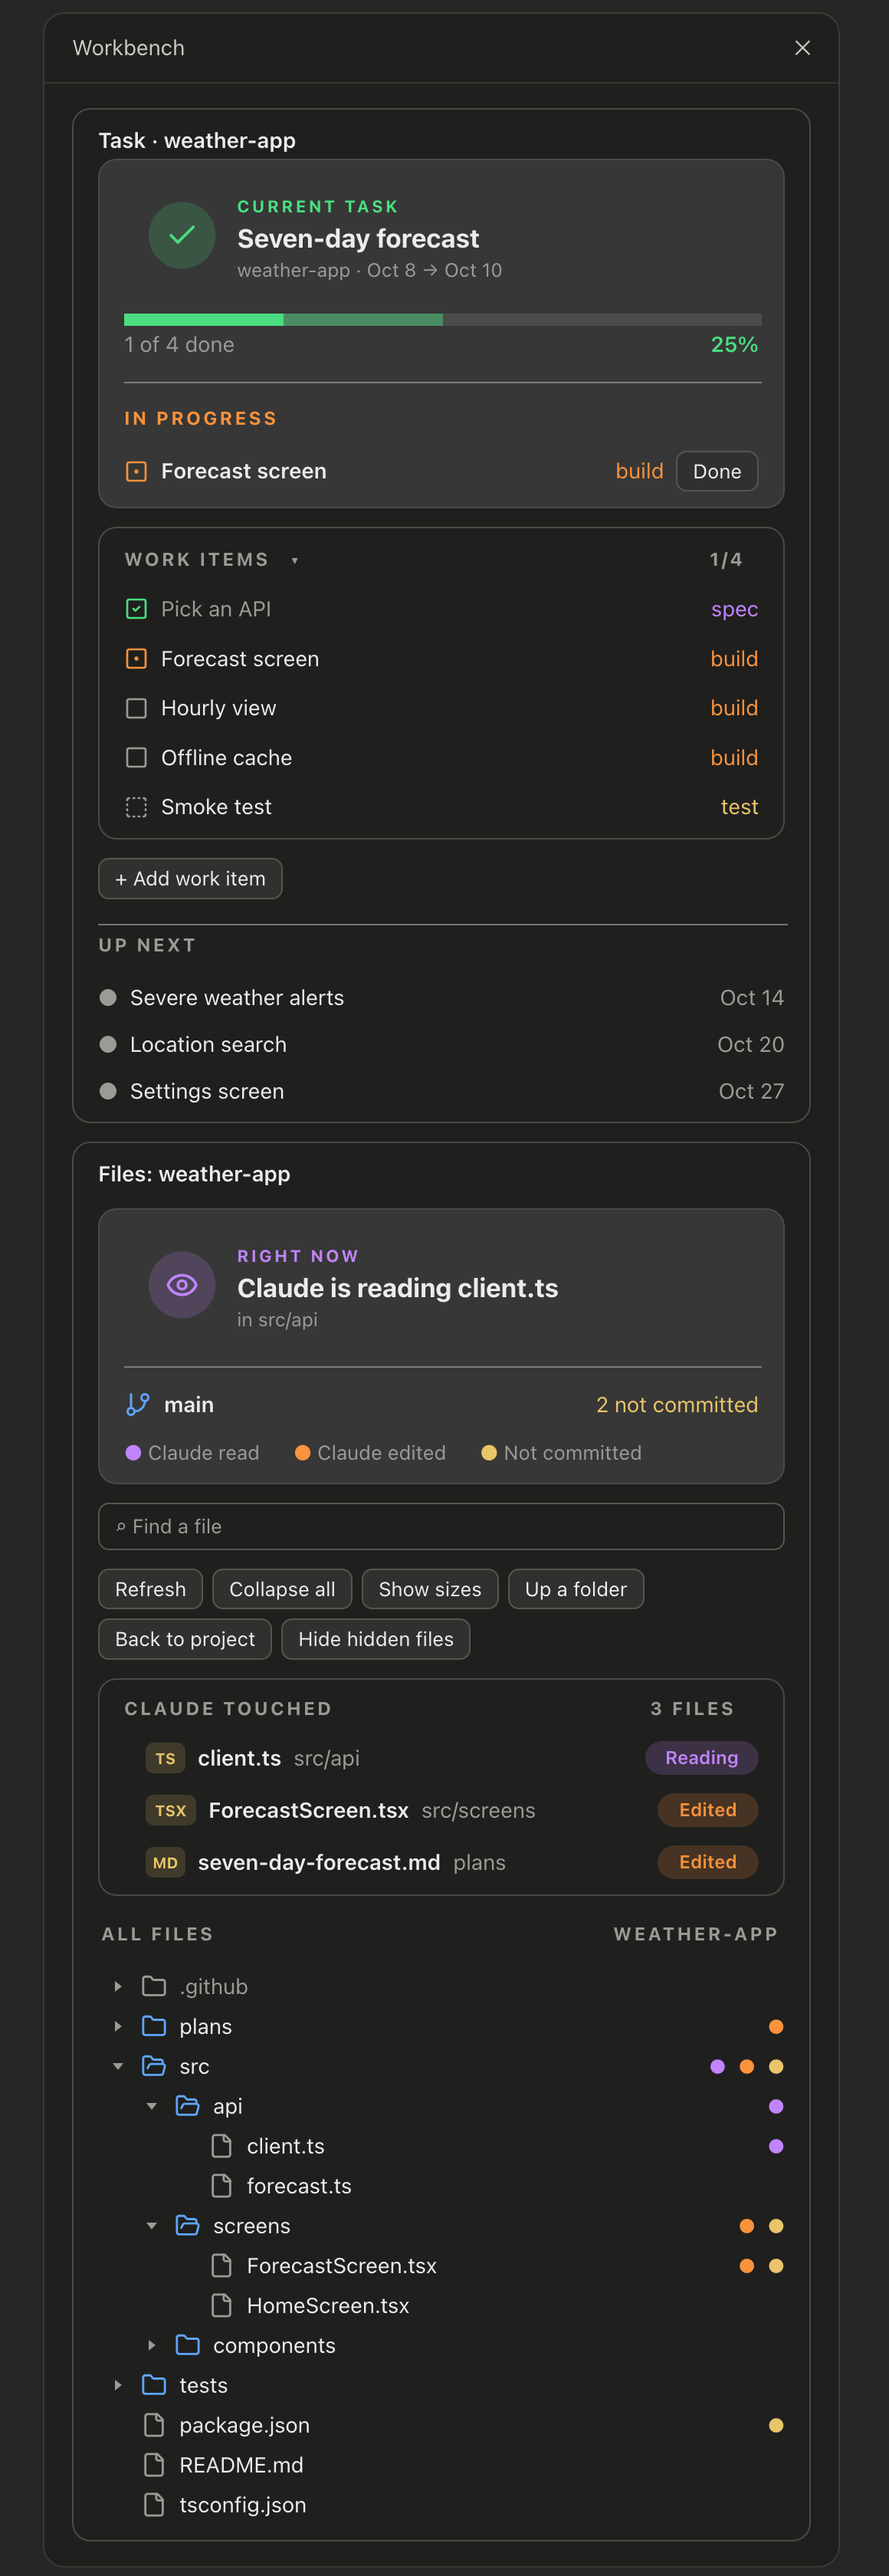
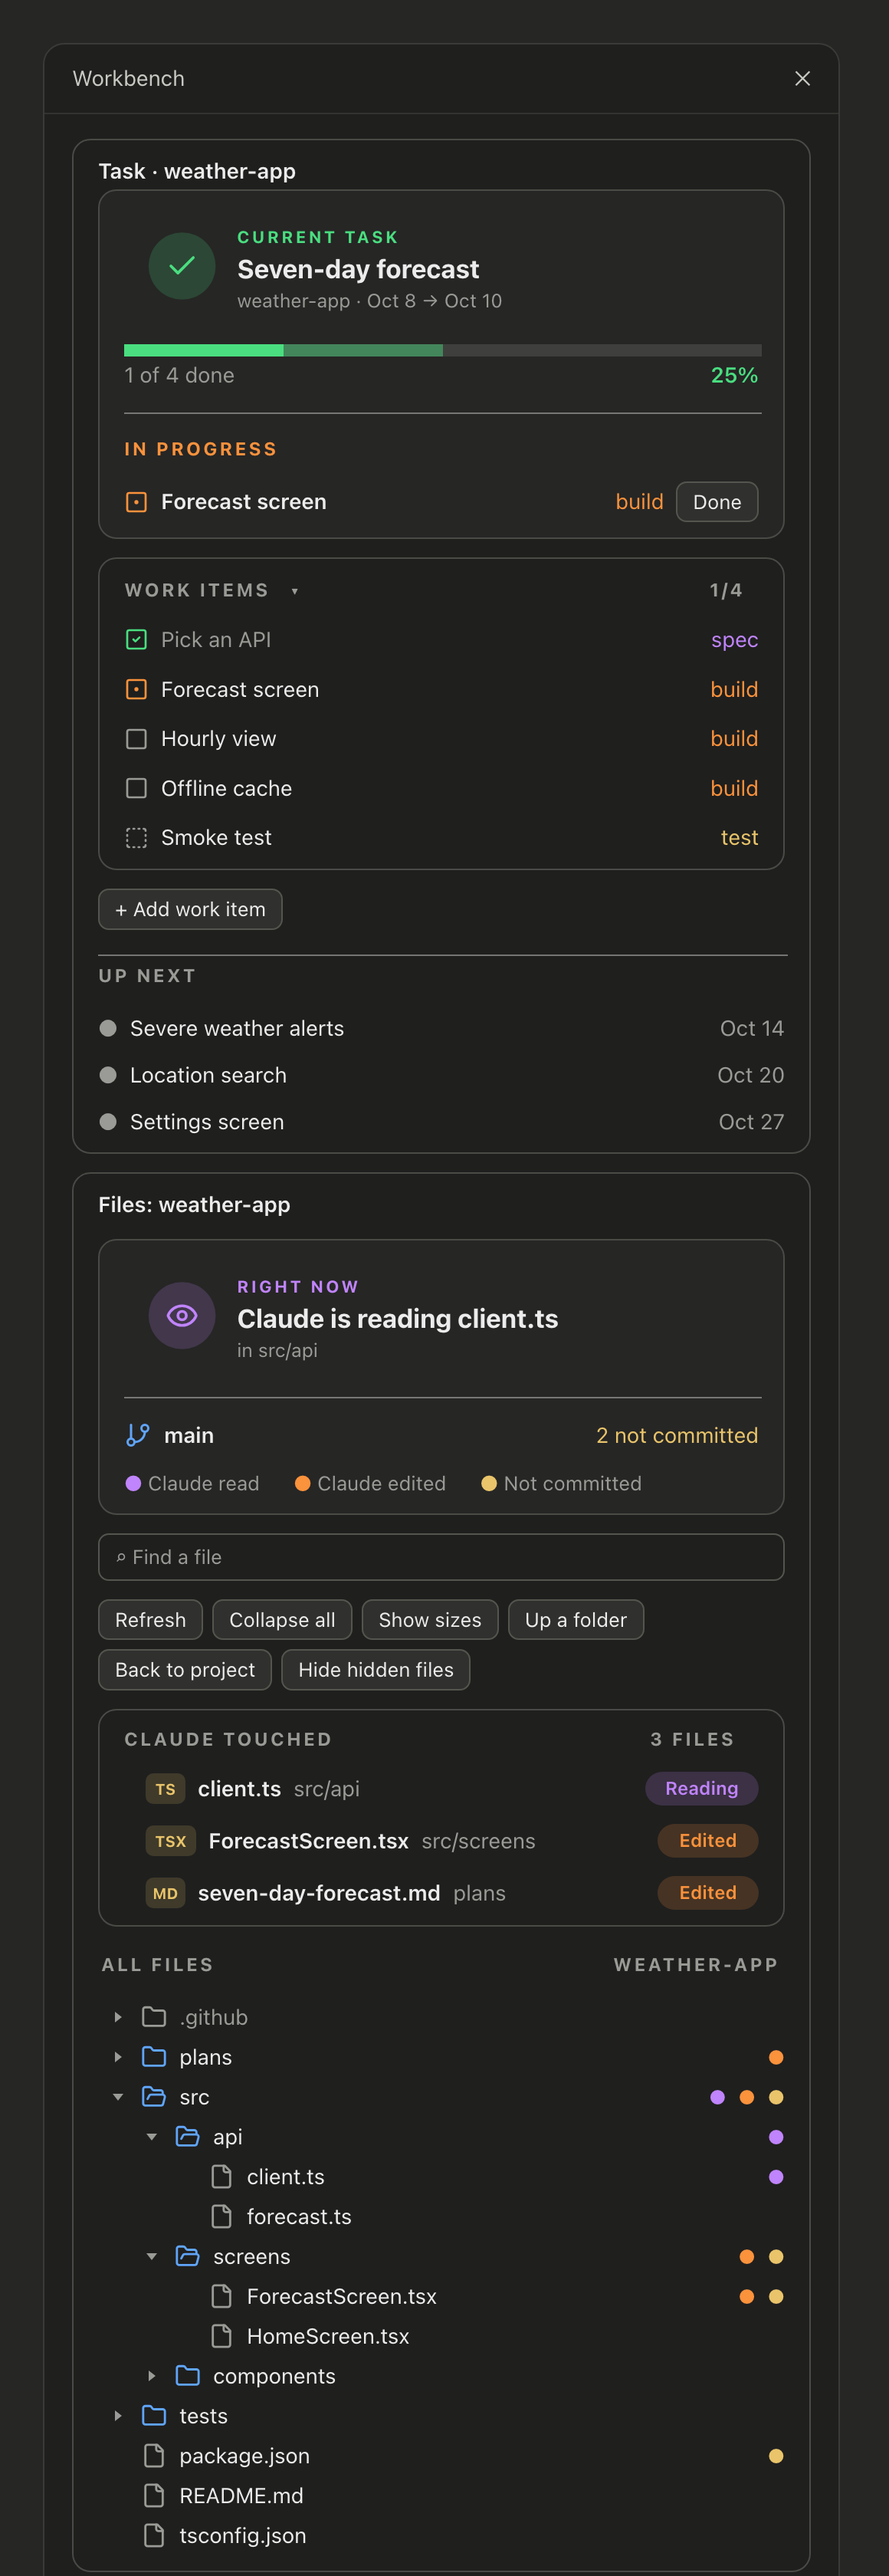
Current task and Right now cards: agents panel tile color, no border; mockup redrawn; 0.1.5

diff --git a/hooks/register.tsx b/hooks/register.tsx
@@ -653,10 +653,10 @@ export const register: Register = (on, options) => {
         {right ? capsText(key + '-r', right) : null}
       </Box>
     )
-    // A tinted card takes the band's panel color, by the theme setting.
+    // A tinted card (Current task, Right now) takes the agents panel's tile color, by the theme setting, and has no border.
     const benchUi = await read($, benchAtom)
     const card = (key: string, kids: unknown[], marginTop = 0, tinted = false) => (
-      <Box key={key} flexDirection="column" alignItems="stretch" width="100%" marginTop={marginTop} backgroundColor={tinted ? tintOf(benchUi.theme) : undefined} borderStyle="round" borderColor={pal.themed ? pal.muted : undefined} borderDimColor={!pal.themed} paddingX={2} paddingY={1}>
+      <Box key={key} flexDirection="column" alignItems="stretch" width="100%" marginTop={marginTop} backgroundColor={tinted ? tintOf(benchUi.theme) : undefined} borderStyle={tinted ? undefined : 'round'} borderColor={pal.themed ? pal.muted : undefined} borderDimColor={!pal.themed} paddingX={2} paddingY={1}>
         {kids as never}
       </Box>
     )

diff --git a/hooks/bench.ts b/hooks/bench.ts
@@ -28,8 +28,8 @@ const PLAIN_LIGHT: Palette = { read: '#7c3aed', write: '#c2410c', run: '#a16207'
 /** A drawing's color for `slot`: the skin's, or with no skin a light and dark pair. */
 export const inkOf = (pal: Palette & { themed: boolean }, slot: Slot): Ink => (pal.themed ? pal[slot] : { light: PLAIN_LIGHT[slot], dark: PLAIN_DARK[slot] })
 
-/** The tinted cards' background, the band's panel color: by Claude Code's theme setting, else the theme's message background. */
-export const tintOf = (theme?: 'light' | 'dark' | 'auto') => (theme === 'light' ? '#f0eee6' : theme === 'dark' ? '#30302e' : 'userMessageBackground')
+/** The tinted cards' background, savvy-progress's agents panel tile color: by Claude Code's theme setting, else the theme's message background. */
+export const tintOf = (theme?: 'light' | 'dark' | 'auto') => (theme === 'light' ? '#f4f3f0' : theme === 'dark' ? '#262625' : 'userMessageBackground')
 
 /** Claude Code's theme setting (`light`, `dark-daltonized`, ...) as light, dark or auto. */
 export const themeKind = (value: unknown): 'light' | 'dark' | 'auto' =>
